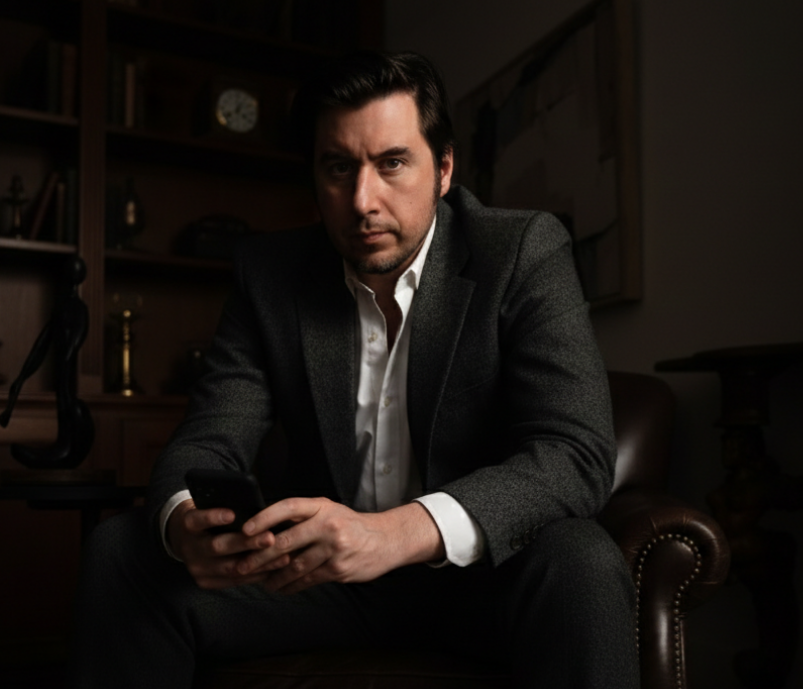
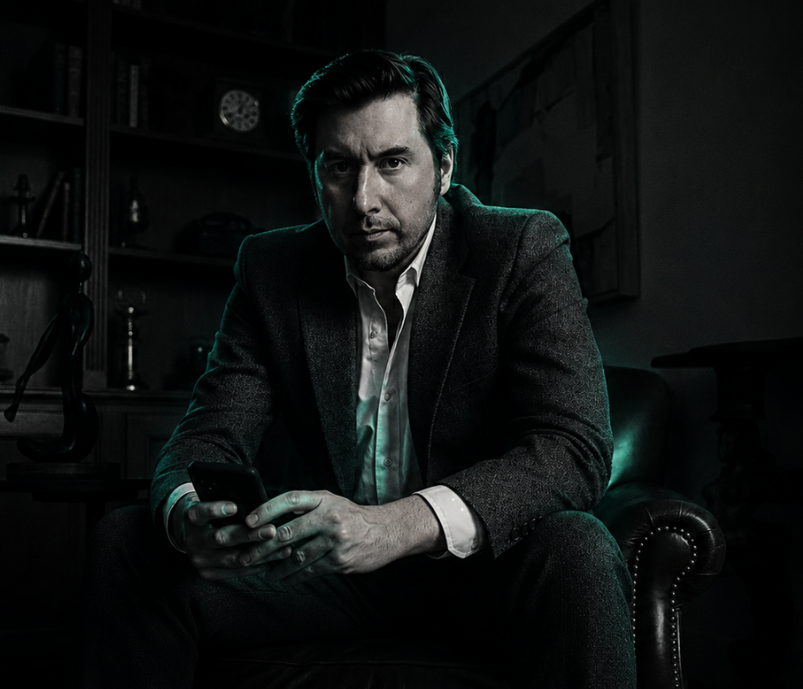
Update Capabilities component and assets

diff --git a/src/components/Capabilities.tsx b/src/components/Capabilities.tsx
@@ -117,11 +117,22 @@ export function Capabilities() {
             </span>
           </div>
 
-          <div className="relative overflow-hidden border border-emerald-500/15 bg-bg-base shadow-[0_0_24px_rgba(16,185,129,0.08),inset_0_0_18px_rgba(16,185,129,0.05)] before:pointer-events-none before:absolute before:inset-0 before:z-10 before:bg-emerald-500/[0.055] before:mix-blend-screen after:pointer-events-none after:absolute after:inset-0 after:z-10 after:bg-[radial-gradient(circle_at_50%_34%,transparent_0%,rgba(16,185,129,0.06)_58%,rgba(0,0,0,0.34)_100%)]">
+          <div className="
+  relative z-0 aspect-[4/3] w-full object-cover object-center
+  opacity-95
+  contrast-[1.06]
+  brightness-[0.9]
+  saturate-[0.85]">
             <img
               src={operatorPhoto}
               alt="Operator portrait"
-              className="relative z-0 aspect-[4/3] w-full object-cover object-center opacity-90 grayscale contrast-[1.12] brightness-[0.78] saturate-[0.55]"
+              className="aspect-[4/3] w-full object-cover object-center  relative overflow-hidden border border-emerald-500/15 bg-bg-base
+  shadow-[0_0_24px_rgba(16,185,129,0.07),inset_0_0_18px_rgba(16,185,129,0.04)]
+  before:pointer-events-none before:absolute before:inset-0 before:z-10
+  before:bg-emerald-500/[0.025] before:mix-blend-screen
+  after:pointer-events-none after:absolute after:inset-0 after:z-10
+  after:bg-[radial-gradient(circle_at_50%_35%,transparent_0%,rgba(16,185,129,0.035)_58%,rgba(0,0,0,0.26)_100%)]
+"
             />
           </div>
 
